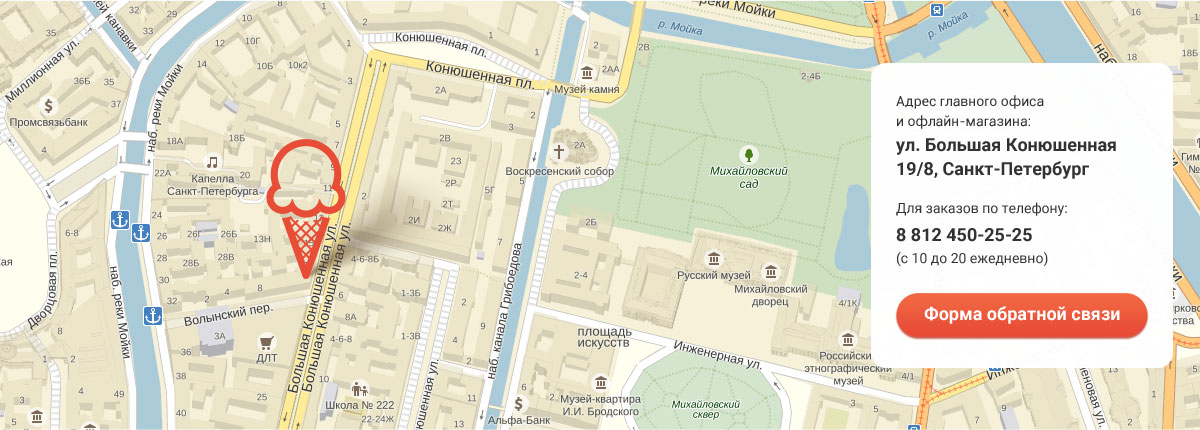
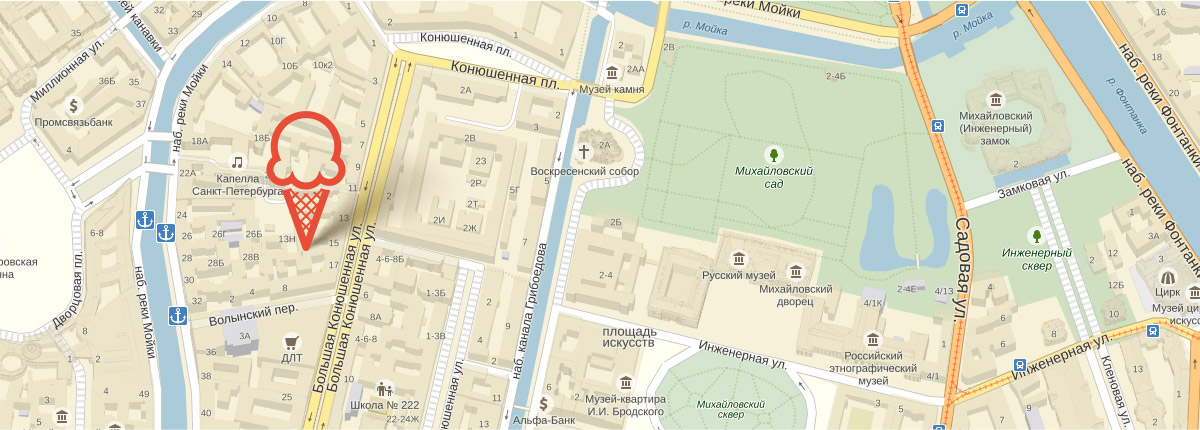
Правки
Под карту

diff --git a/css/style.css b/css/style.css
@@ -1495,11 +1495,11 @@ border-radius: 0 0 7px 7px;
 .map {
 	display: flex;
 	justify-content: flex-end;
-	width: 1200px;
-	margin: 0 auto;
-	padding: 62px 27px;
+	padding: 62px 0px;
 	background-color: #e3e1cf;
+	min-width: 1200px;
 	background-image: url(../img/map.jpg);
+	background-size: 100%; 
 	background-repeat: no-repeat;
 }
 .contacts {
@@ -1550,5 +1550,12 @@ border-radius: 0 0 7px 7px;
 }
 .telephon {
 	margin-bottom: 2px;
+}
+.map-container {
+	display: flex;
+	justify-content: flex-end;
+	width: 1200px;
+	margin: 0 auto;
+	padding: 0 27px;
 }
 

diff --git a/index.html b/index.html
@@ -264,7 +264,9 @@
 				
 			</main>
 			</div>
+
 			<section class="map">
+				<div class="map-container">
 				<section class="contacts">
 				<h2 class="visually-hidden">Адрес магазина</h2>
 				<p>
@@ -278,6 +280,7 @@
         </p>
         <a class="button contacts-button" href="#">Форма обратной связи</a>
 				</section>
+			</div>
 			</section>
 		
 
